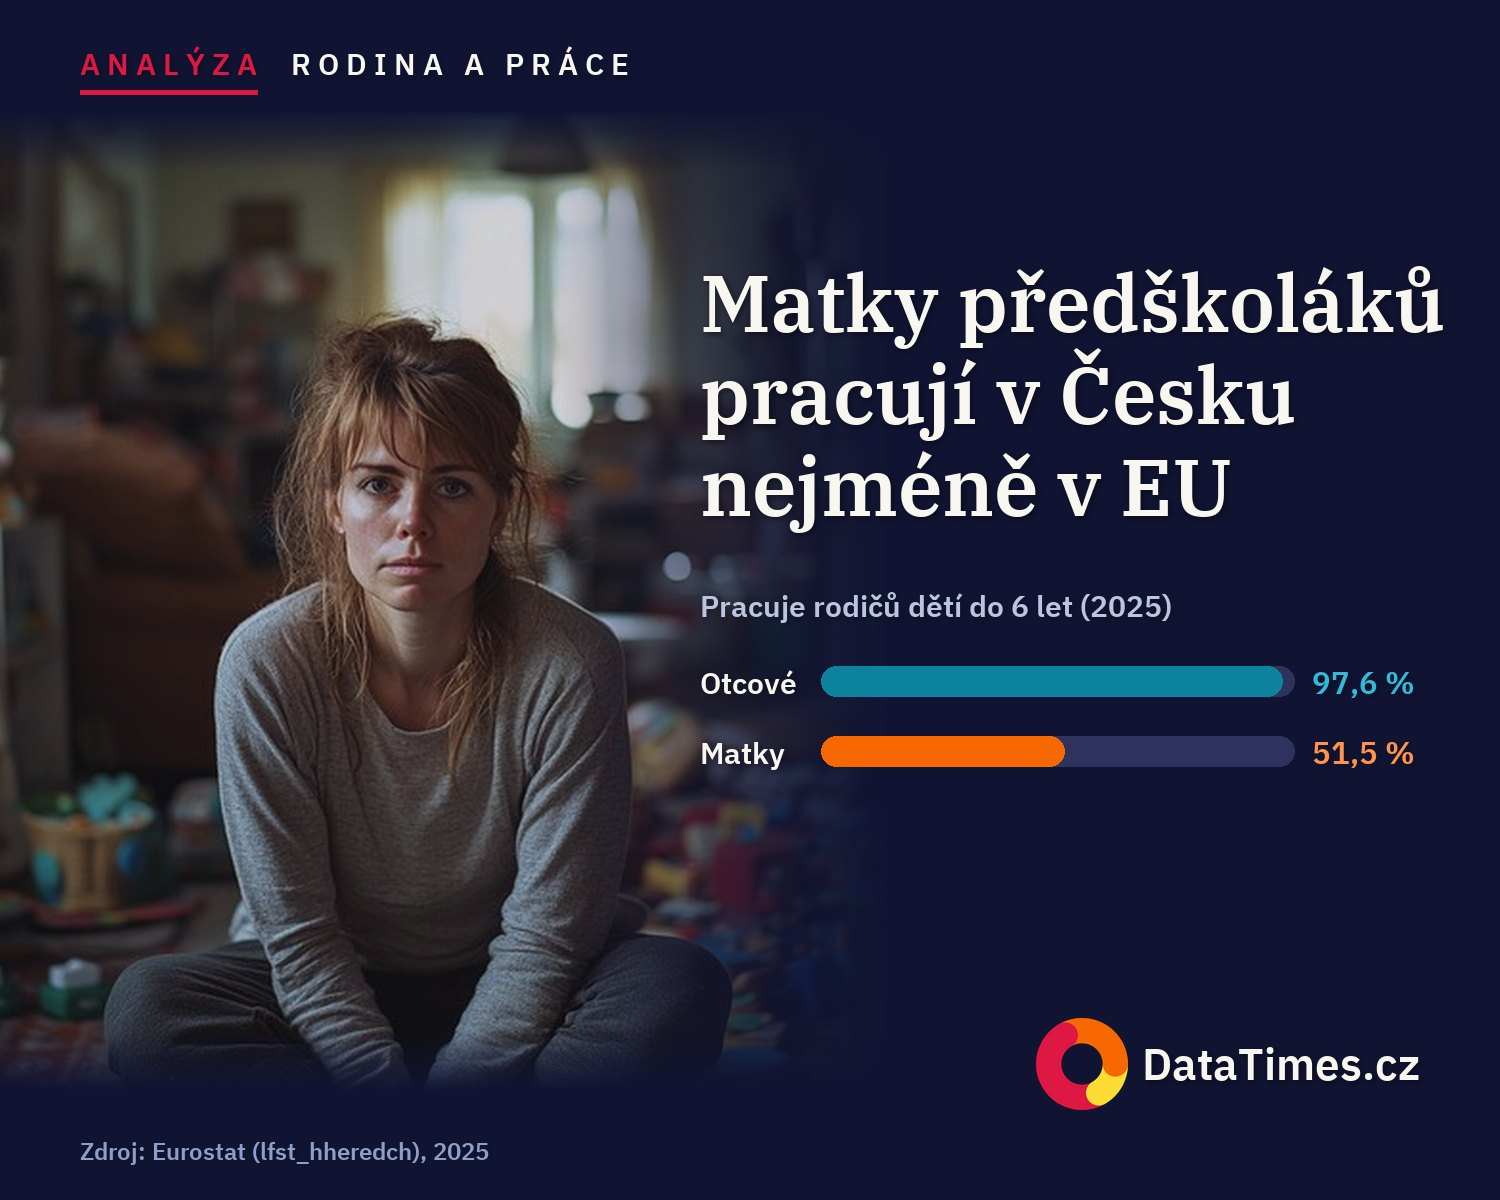
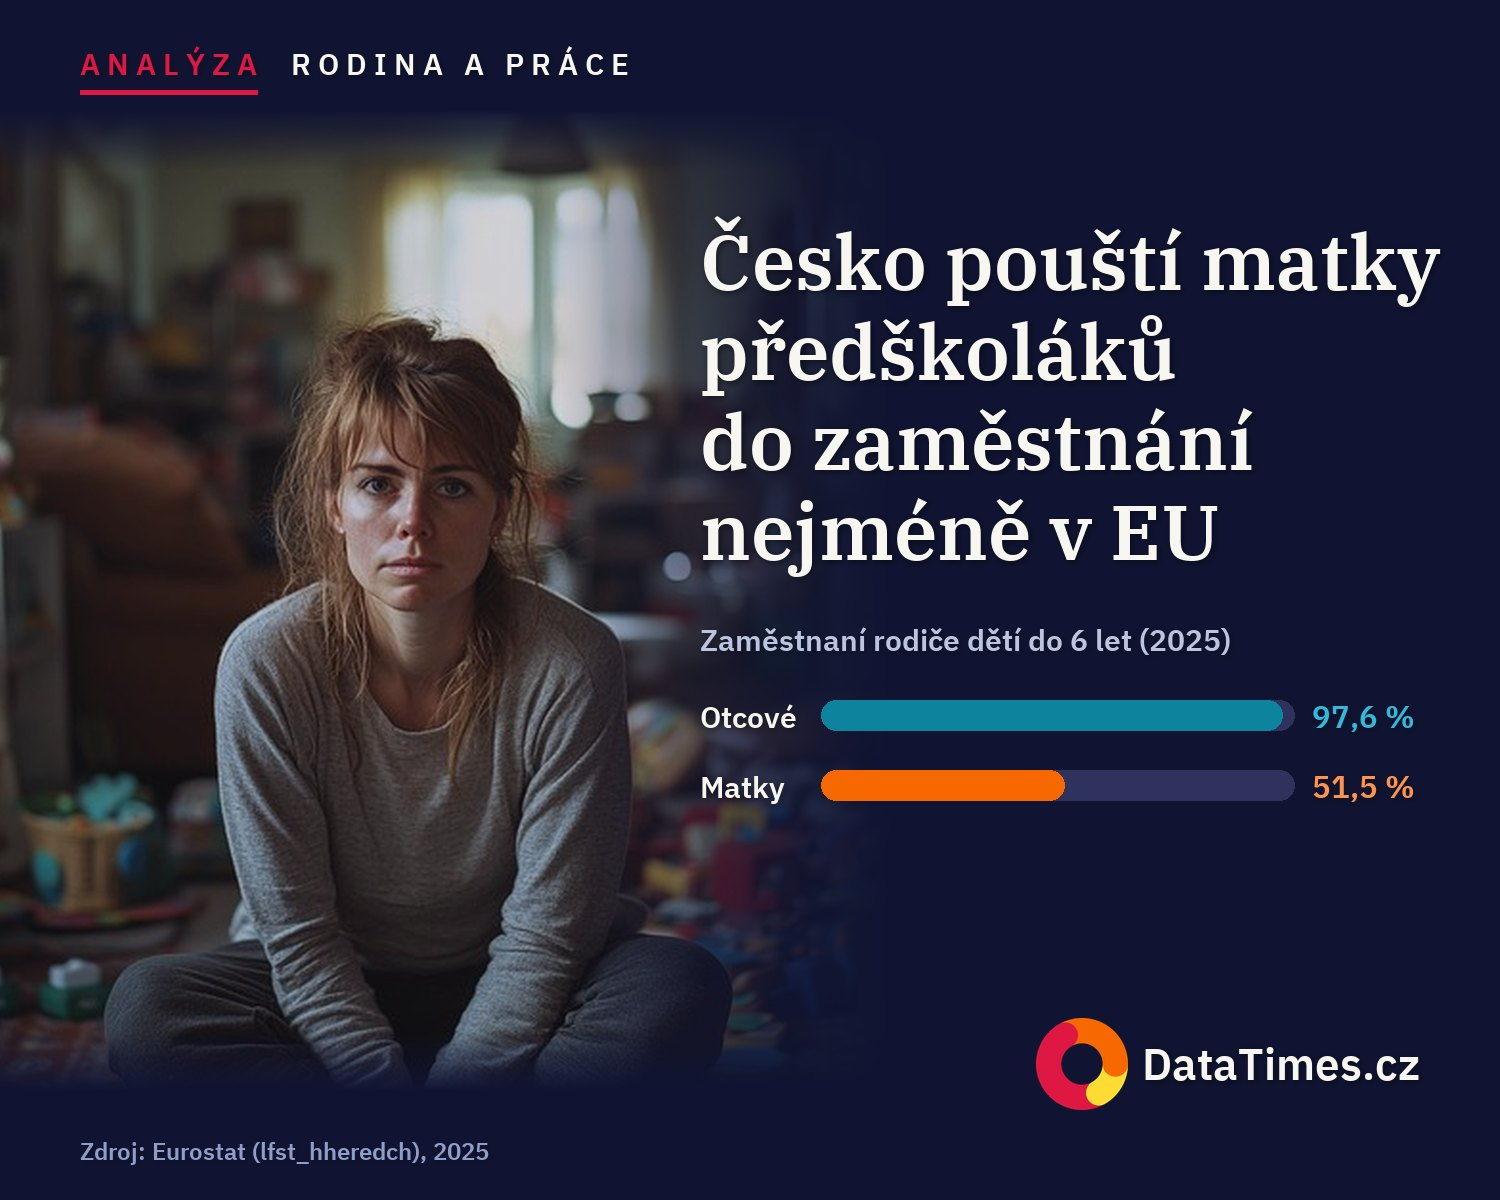
content: matky předškoláků – framing „nepouští do zaměstnání", ne „pracují nejméně"
Titulek, perex, cover, OG, KeyNumbers i tooltipy grafů mluví o zaměstnání
a placené práci; doplněna věta o neplacené péči doma.

Changed region(s): [[0.46, 0.185, 0.9813, 0.6783]]

diff --git a/apps/web/app/clanek/_articles/analyza-2026-09-23-ceske-matky-predskolaku-vstupuji-na-pracovni-trh-nejmene-v-eu/index.md b/apps/web/app/clanek/_articles/analyza-2026-09-23-ceske-matky-predskolaku-vstupuji-na-pracovni-trh-nejmene-v-eu/index.md
@@ -1,15 +1,15 @@
 ---
-title: "Matky předškoláků pracují v Česku nejméně v EU. Vláda na to odpovídá vyšším rodičákem"
+title: "Česko pouští matky předškoláků do zaměstnání nejméně v EU. Vláda na to odpovídá vyšším rodičákem"
 date: "2026-09-23"
 author: "Kateřina Mahdalová"
-excerpt: "Otcové dětí do šesti let mají v Česku nejvyšší zaměstnanost v Evropské unii, matky spolu s Rumunkami nejnižší. Rozdíl 46 procentních bodů nemá v EU obdobu. Na kulatém stole ve Sněmovně se odborníci shodli, že chybí jesle, zkrácené úvazky a otcové na rodičovské. Vláda od ledna 2027 zvyšuje rodičovský příspěvek na 400 tisíc korun."
+excerpt: "Otcové dětí do šesti let mají v Česku placenou práci nejčastěji v Evropské unii, matky spolu s Rumunkami nejméně často. Rozdíl 46 procentních bodů nemá v EU obdobu. Zájem matky mají: jakmile jde dítě do školy, jsou Češky zaměstnané častěji než jinde v Evropě. Na kulatém stole ve Sněmovně se odborníci shodli, že je na trh práce nepouštějí chybějící jesle, zkrácené úvazky a otcové na rodičovské. Vláda od ledna 2027 zvyšuje rodičovský příspěvek na 400 tisíc korun."
 coverImage: "images/cover-homepage.jpg"
 ogImage: "images/cover-og.jpg"
 filter: ["analýza", "společnost"]
 tags: ["slaďování práce a rodiny", "rodinná politika", "demografie", "porodnost", "rodičovský příspěvek", "jesle", "zkrácené úvazky", "otcovská", "Poslanecká sněmovna", "Eurostat", "MPSV"]
 ---
 
-Otec, jehož nejmladšímu dítěti ještě nebylo šest let, pracuje v Česku s pravděpodobností 97,6 procenta. Nikde v Evropské unii to není víc. Matka ve stejné situaci pracuje s pravděpodobností 51,5 procenta. Stejně málo je to jen v Rumunsku. Rozdíl 46 procentních bodů je [podle dat Eurostatu za rok 2025](https://ec.europa.eu/eurostat/databrowser/view/lfst_hheredch/default/table?lang=en) největší v celé unii. Druhá Itálie má 35 bodů, průměr EU je 22.
+Otec, jehož nejmladšímu dítěti ještě nebylo šest let, je v Česku zaměstnaný s pravděpodobností 97,6 procenta. Nikde v Evropské unii to není víc. Matka ve stejné situaci má placenou práci s pravděpodobností 51,5 procenta. Stejně málo je to jen v Rumunsku. Rozdíl 46 procentních bodů je [podle dat Eurostatu za rok 2025](https://ec.europa.eu/eurostat/databrowser/view/lfst_hheredch/default/table?lang=en) největší v celé unii. Druhá Itálie má 35 bodů, průměr EU je 22. Méně přitom matky malých dětí nepracují – doma odvádějí péči, kterou statistika zaměstnanosti nezachytí. Do placeného zaměstnání je ale česká společnost pouští nejhůř z celé unie.
 
 <RelatedArticles preset="sidebar" slugs={["analyza-2025-03-08-zeny-v-politice-cim-vyse-tim-mene-zen"]} position="right" heading="🔻🔻🔻" />Tohle číslo stálo v pozadí jednání, které se ve středu 23. září 2026 konalo v Konírně Poslanecké sněmovny. Kulatý stůl [Slaďování práce a rodiny v aktuální ekonomické situaci](https://www.kdu.cz/aktualne/ruzne/pozvanka-kulaty-stul-sladovani-prace-a-rodiny-v-ak?feed=c19871af-4fb0-4d09-9738-238dc4e80155) svolal poslanec Václav Pláteník (KDU-ČSL) v rámci série Systémová podpora rodin jako investice do budoucnosti. U stolu seděly demografky a socioložky, neziskové organizace, zástupkyně ministerstva práce, personální ředitelka velké pojišťovny i úřednice ostravského magistrátu. Na tom, co rodičům malých dětí v Česku chybí, se shodly rychle: jesle, zkrácené úvazky a otcové, kteří zůstanou s dítětem doma.
 
@@ -24,7 +24,7 @@ Z čeho vycházíme: průběh kulatého stolu známe ze [záznamu Poslanecké sn
   numbers={[
     {
       value: "51,5 %",
-      title: "matek předškoláků pracuje",
+      title: "matek předškoláků je zaměstnaných",
       description: "Nejméně v EU spolu s Rumunskem. Průměr unie je 70,1 procenta.",
       color: "brand"
     },
@@ -36,7 +36,7 @@ Z čeho vycházíme: průběh kulatého stolu známe ze [záznamu Poslanecké sn
     },
     {
       value: "13,1 %",
-      title: "pracujících žen má zkrácený úvazek",
+      title: "zaměstnaných žen má zkrácený úvazek",
       description: "Průměr EU je 28,2 procenta, v Německu a Rakousku skoro polovina.",
       color: "brand"
     }
@@ -45,17 +45,17 @@ Z čeho vycházíme: průběh kulatého stolu známe ze [záznamu Poslanecké sn
 
 ## Česko má v Evropě největší propast mezi matkami a otci malých dětí
 
-Jana Paloncyová z Nadace Sirius to na kulatém stole [shrnula jednou větou](https://videoarchiv.psp.cz/video2/K48/2026/09/23/_20260923101002.mp4#t=241): Česko je premiantem v zaměstnanosti mužů a outsiderem v zaměstnanosti žen ve věku 30 až 34 let. Data jí dávají za pravdu. Muži v tomto věku pracují v Česku v 95,6 procenta případů, nejčastěji v EU. Ženy v 66,5 procenta, méně je to jen v Rumunsku a Itálii. Právě kolem třicítky přitom české ženy nejčastěji rodí.
+Jana Paloncyová z Nadace Sirius to na kulatém stole [shrnula jednou větou](https://videoarchiv.psp.cz/video2/K48/2026/09/23/_20260923101002.mp4#t=241): Česko je premiantem v zaměstnanosti mužů a outsiderem v zaměstnanosti žen ve věku 30 až 34 let. Data jí dávají za pravdu. Muži v tomto věku jsou v Česku zaměstnaní v 95,6 procenta případů, nejčastěji v EU. Ženy v 66,5 procenta, méně je to jen v Rumunsku a Itálii. Právě kolem třicítky přitom české ženy nejčastěji rodí.
 
 Graf ukazuje, jak daleko od sebe jsou v jednotlivých zemích matky a otcové dětí mladších šesti let.
 
 <VegaChart dataFile="data/matky-otcove-zamestnanost.json" />
 
-Zaměstnanost otců se v celé unii drží zhruba mezi 85 a 98 procenty, rozdíly mezi zeměmi jsou malé. O pořadí rozhodují matky. Ve Slovinsku, Portugalsku nebo Chorvatsku pracuje přes 84 procent matek předškoláků, ve Švédsku a Dánsku přes 80 procent. Z postkomunistických zemí je na tom podobně jako Česko jen Rumunsko. Slovensko, Bulharsko i Polsko mají o 18 až 22 bodů víc.
+Zaměstnanost otců se v celé unii drží zhruba mezi 85 a 98 procenty, rozdíly mezi zeměmi jsou malé. O pořadí rozhodují matky. Ve Slovinsku, Portugalsku nebo Chorvatsku má placenou práci přes 84 procent matek předškoláků, ve Švédsku a Dánsku přes 80 procent. Z postkomunistických zemí je na tom podobně jako Česko jen Rumunsko. Slovensko, Bulharsko i Polsko mají o 18 až 22 bodů víc.
 
 ## Když jde dítě do školy, české matky Evropu předběhnou
 
-Sama o sobě by nízká zaměstnanost matek mohla znamenat, že Češky pracovat nechtějí. Druhý graf tu interpretaci vyvrací. Jakmile je nejmladšímu dítěti šest let, pracuje 93,3 procenta českých matek – o patnáct bodů víc, než je evropský průměr. Podobně vysoko jsou Češky bez dětí.
+Sama o sobě by nízká zaměstnanost matek mohla znamenat, že Češky o zaměstnání nestojí. Druhý graf tu interpretaci vyvrací. Jakmile je nejmladšímu dítěti šest let, je zaměstnaných 93,3 procenta českých matek – o patnáct bodů víc, než je evropský průměr. Podobně vysoko jsou Češky bez dětí.
 
 <VegaChart dataFile="data/matky-podle-veku-ditete.json" />
 
